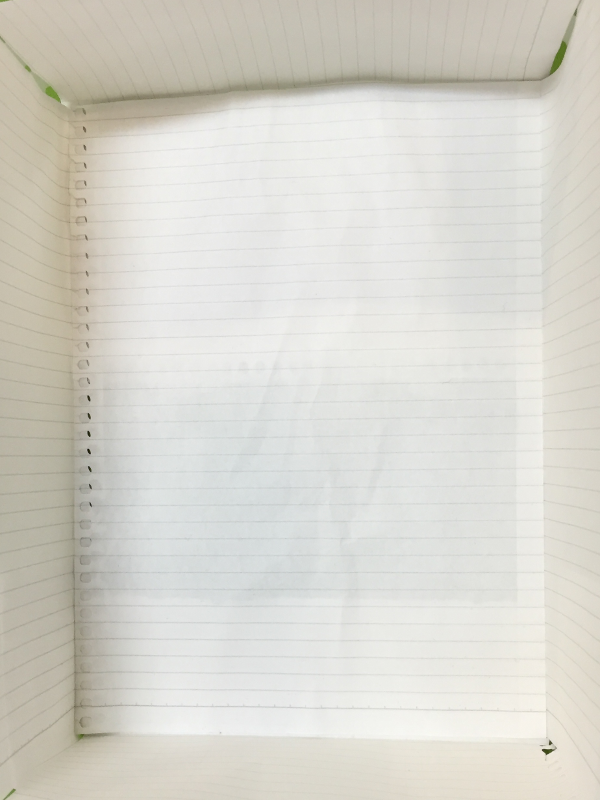
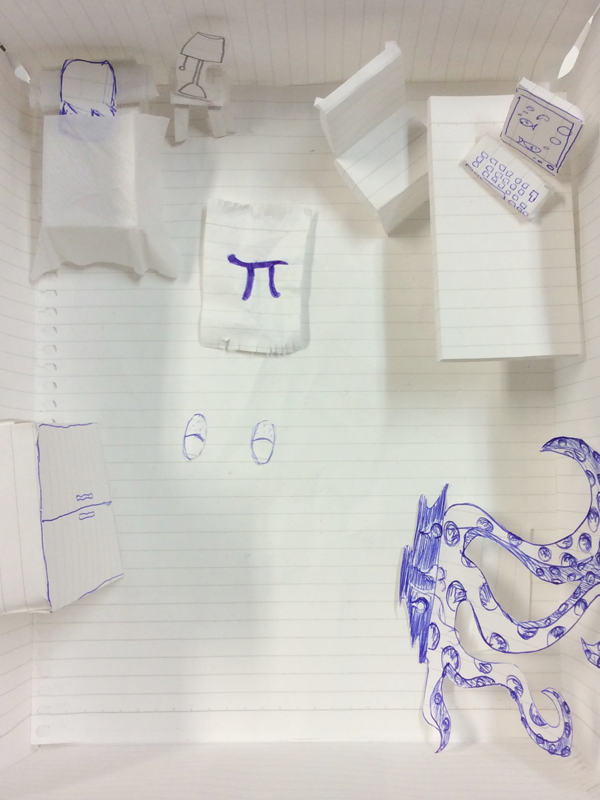
Minijuegos y assets

diff --git a/src/js/minijuego06.js b/src/js/minijuego06.js
@@ -1,0 +1,83 @@
+(function() {
+  'use strict';
+
+  function MiniJuego06() {}
+
+  MiniJuego06.prototype = {
+    create: function () {
+      // animation background
+      var papel = this.game.add.sprite(0, 0, 'background');
+      var desplegar = papel.animations.add('desplegar');
+      papel.animations.play('desplegar', 8, false);
+
+      this.game.physics.startSystem(Phaser.Physics.ARCADE);
+      this.cajon = this.game.add.sprite(50, 90, 'cajon');
+
+      this.numCalzoncillos = 20;
+      this.calzoncillos = this.game.add.physicsGroup(Phaser.Physics.ARCADE);
+
+
+      for(var i = 0; i < this.numCalzoncillos; i++){
+        var l = this.calzoncillos.create(this.game.rnd.integerInRange(100, 300), this.game.rnd.integerInRange(150, 350), 'calzoncillos_' + this.game.rnd.integerInRange(0, 3));
+        l.inputEnabled = true;
+        l.input.enableDrag();
+        l.events.onDragStop.add(this.dropHandler, this);
+        l.events.onInputDown.add(this.listenerCalzoncillo, this);
+      }
+      
+
+      this.calzoncillos.setAll('body.collideWorldBounds', true);
+      this.calzoncillos.setAll('body.bounce.x', 1);
+      this.calzoncillos.setAll('body.bounce.y', 1);
+
+      this.text = this.game.add.text(50, 700, '', { fill: '#000' });
+    },
+
+    update: function () {
+      //this.game.physics.arcade.collide(this.lapices);
+      
+      
+      
+    },
+
+    onDown: function () {
+
+    },
+    render: function(){
+      /*for(var i = 0; i < this.numLapices; i++){
+        this.game.debug.body(this.lapices[i]);
+      }*/
+    },
+
+    finKO : function(){
+      this.text.text = "KO";
+    },
+
+    finOK: function(){
+      this.text.text = "OK";
+    },
+
+    dropHandler: function(item, pointer){
+      var ps = [new Phaser.Point(95, 126), new Phaser.Point(317, 126), new Phaser.Point(95, 402), new Phaser.Point(317, 402)];
+      var numCalzoncillosOrdenados = 0;
+      for(var i=0; i < this.calzoncillos.children.length; i++){
+        var p = new Phaser.Point(this.calzoncillos.children[i].x, this.calzoncillos.children[i].y);
+        if( p.distance(ps[parseInt(this.calzoncillos.children[i].key.split('_')[1])]) < 100 && this.calzoncillos.children[i].frame == 1){
+          numCalzoncillosOrdenados++;
+        }
+      }
+      var desordenados = this.numCalzoncillos - numCalzoncillosOrdenados;
+      this.text.text = 'Solo faltan ' + desordenados + ' calzoncillos por ordenar';
+      if (desordenados == 0){
+        this.finOK();
+      }
+    },
+
+    listenerCalzoncillo: function(item, pointer) {
+      item.frame = 1;
+    },
+  };
+
+  window['tocme'] = window['tocme'] || {};
+  window['tocme'].MiniJuego06 = MiniJuego06;
+}());

diff --git a/src/js/minijuego05.js b/src/js/minijuego05.js
@@ -1,0 +1,76 @@
+(function() {
+  'use strict';
+
+  function MiniJuego05() {}
+
+  MiniJuego05.prototype = {
+    create: function () {
+      // animation background
+      var papel = this.game.add.sprite(0, 0, 'background');
+      var desplegar = papel.animations.add('desplegar');
+      papel.animations.play('desplegar', 8, false);
+
+      this.game.physics.startSystem(Phaser.Physics.ARCADE);
+      this.plantilla = this.game.add.sprite(0, 90, 'plantilla');
+
+      this.numPalabras = 8;
+      this.palabras = this.game.add.physicsGroup(Phaser.Physics.ARCADE);
+
+      for(var i = 0; i < this.numPalabras; i++){
+        var l = this.palabras.create(this.game.rnd.integerInRange(0, 100), this.game.rnd.integerInRange(0, 750), 'palabra_' + i);
+        l.inputEnabled = true;
+        l.input.enableDrag();
+        l.events.onDragStop.add(this.dropHandler, this);
+      }
+
+      this.palabras.setAll('body.collideWorldBounds', true);
+      this.palabras.setAll('body.bounce.x', 1);
+      this.palabras.setAll('body.bounce.y', 1);
+
+      this.text = this.game.add.text(50, 700, '', { fill: '#000' });
+    },
+
+    update: function () {
+      //this.game.physics.arcade.collide(this.lapices);
+      
+      
+    },
+
+    onDown: function () {
+
+    },
+    render: function(){
+      /*for(var i = 0; i < this.numLapices; i++){
+        this.game.debug.body(this.lapices[i]);
+      }*/
+    },
+
+    finKO : function(){
+      this.text.text = "KO";
+    },
+
+    finOK: function(){
+      this.text.text = "OK";
+    },
+
+    dropHandler: function(item, pointer){
+      var ps = [new Phaser.Point(65, 110), new Phaser.Point(190, 109), new Phaser.Point(319, 110), new Phaser.Point(415, 115), new Phaser.Point(520, 111), new Phaser.Point(142, 194), new Phaser.Point(146, 274), new Phaser.Point(25, 350)];
+      var numPalabrasOrdenadas = 0;
+
+      for(var i=0; i < this.palabras.children.length; i++){
+        var p = new Phaser.Point(this.palabras.children[i].x, this.palabras.children[i].y);
+        if( p.distance(ps[parseInt(this.palabras.children[i].key.split('_')[1])]) < 20 ){
+          numPalabrasOrdenadas++;
+        }
+      }
+      var desordenados = this.numPalabras - numPalabrasOrdenadas;
+      this.text.text = 'Solo faltan ' + desordenados + ' palabras por ordenar';
+      if (desordenados == 0){
+        this.finOK();
+      }
+    }
+  };
+
+  window['tocme'] = window['tocme'] || {};
+  window['tocme'].MiniJuego05 = MiniJuego05;
+}());

diff --git a/src/js/minijuego04.js b/src/js/minijuego04.js
@@ -35,15 +35,7 @@
 
     update: function () {
       //this.game.physics.arcade.collide(this.lapices);
-      
-      var minDy = null;
-      for(var i = 0; i < this.lapices.children.length-1; i++){
-        var dyi = Math.abs(this.lapices.children[i].y - this.lapices.children[i+1].y);
-        if (!minDy || minDy > dyi){
-          minDy = dyi;
-        }
-      }
-      this.text.text = minDy;
+     
     },
 
     onDown: function () {
@@ -64,7 +56,29 @@
     },
 
     dropHandler: function(item, pointer){
-      //this.selected = item;
+      console.log(item.position);
+      var ds = [];
+      var ordenados = 0;
+      for(var i = 0; i < this.numLapices; i++){
+        var d = 0;
+        for(var j = 0; j < this.numLapices; j++){
+          if(i != j){
+            var distance = this.lapices.children[i].position.distance(this.lapices.children[j].position)
+            if (distance > 60 && distance <= 100){
+              d++;
+            }
+          }
+        }
+        if (d >= 1 && d <= 2){
+          ordenados++;
+        }
+        ds.push(d);
+      }
+      console.log(ds);
+      
+      if ( this.numLapices == ordenados){
+        this.finOK();
+      }
     }
   };
 

diff --git a/src/js/boot.js b/src/js/boot.js
@@ -18,6 +18,14 @@
       this.load.spritesheet('relojSonando', 'assets/relojSonando.png', 192, 150, 2);
       this.load.spritesheet('lampara', 'assets/lampara.png', 373, 750, 2);
       this.load.image('lapiz', 'assets/lapiz.png');
+      this.load.image('plantilla', 'assets/plantilla.png');
+      for(var i=0; i<8; i++){
+        this.load.image('palabra_'+i, 'assets/palabra_'+i+'.png');
+      }
+      this.load.image('cajon', 'assets/cajon.png');
+      for(var i=0; i<4; i++){
+        this.load.spritesheet('calzoncillos_'+i, 'assets/calzoncillos_'+i+'.png', 150, 143, 2);
+      }
     },
 
     create: function () {

diff --git a/src/js/main.js b/src/js/main.js
@@ -10,6 +10,8 @@ window.addEventListener('load', function () {
   game.state.add('minijuego02', ns.MiniJuego02);
   game.state.add('minijuego03', ns.MiniJuego03);
   game.state.add('minijuego04', ns.MiniJuego04);
+  game.state.add('minijuego05', ns.MiniJuego05);
+  game.state.add('minijuego06', ns.MiniJuego06);
   game.state.add('game', ns.Game);
 
   /* yo phaser:state new-state-files-put-here */

diff --git a/src/js/minijuego03.js b/src/js/minijuego03.js
@@ -9,7 +9,7 @@
       var papel = this.game.add.sprite(0, 0, 'background');
       var desplegar = papel.animations.add('desplegar');
       papel.animations.play('desplegar', 8, false);
-
+      
       this.lampara = this.game.add.sprite(100, 0, 'lampara');
       this.lamparaFrame = 0;
 

diff --git a/src/index.html b/src/index.html
@@ -33,7 +33,8 @@
   <script src="js/minijuego02.js"></script> 
   <script src="js/minijuego03.js"></script>
   <script src="js/minijuego04.js"></script> 
-
+  <script src="js/minijuego05.js"></script> 
+  <script src="js/minijuego06.js"></script> 
   
   <!-- /build -->
 

diff --git a/src/js/preloader.js b/src/js/preloader.js
@@ -27,7 +27,7 @@
 
     update: function () {
       // if (!!this.ready) {
-        this.game.state.start('game');
+        this.game.state.start('minijuego02');
       // }
     },
 
